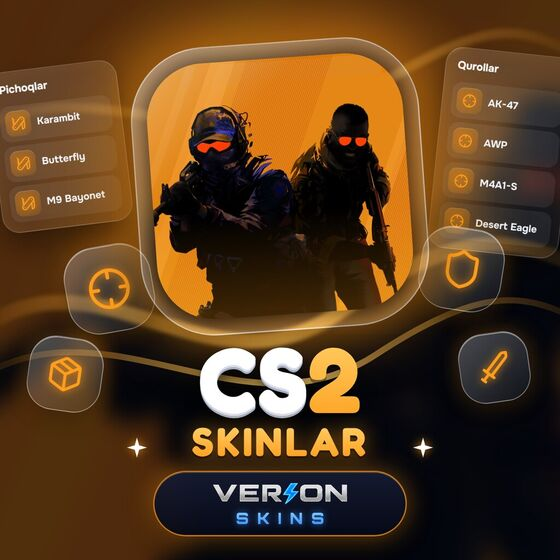
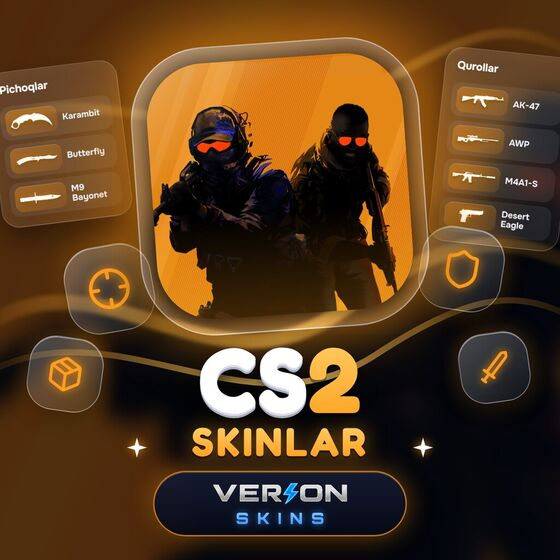
v3.35: Virtual raqam — faqat Telegram va davlat raqamlari; CS2 — haqiqiy qurol shakllari
Virtual raqam muqovasi panellarida faqat Telegram va davlat kodlari
(+998, +7, +1, +44, +90, +62). CS2 muqovasida pichoq va qurollarning
o'yindagi oq kill-feed shakllari (lexogrine/cs2-react-hud, MIT).

Claude-Session: https://claude.ai/code/session_01CbtuoV2biNfcxKy98shqWf

Changed region(s): [[0.7893, 0.0911, 1.0, 0.4857], [0.0, 0.1518, 0.2429, 0.425]]

diff --git a/server.js b/server.js
@@ -14,7 +14,7 @@ const ADMIN_IDS = (process.env.ADMIN_IDS || "5606872249,8684274899")
 /* Deploy belgisi — Railway rostdan yangi kodni ko'tardimi yoki eski build turibdimi,
    shuni ko'rish uchun. Profil ekranida ID ostida ko'rinadi (server/ilova alohida).
    Kod o'zgarganda shu satrni yangilab qo'yiladi. */
-const BUILD = "2026-11-06.7";
+const BUILD = "2026-11-06.8";
 // Har ishga tushishda yangi tasodifiy belgi — /api/health orqali "bu manzil aynan
 // SHU serverga olib keladimi" tekshiruvi uchun (maxfiy emas).
 const INSTANCE_ID = crypto.randomBytes(8).toString("hex");

diff --git a/verion-shop.html b/verion-shop.html
@@ -2827,7 +2827,7 @@ var ADMIN_IDS=[5606872249, 8684274899];
 /* Deploy belgisi — Profil ekranida ID ostida ko'rinadi. Ikkita raqam bo'ladi:
    birinchisi shu HTML fayl (Telegram keshi eski bo'lsa eskiligicha qoladi),
    ikkinchisi server (Railway). Ikkalasi bir xil bo'lmasa — kesh yoki deploy eski. */
-var CLIENT_BUILD="2026-11-06.7";
+var CLIENT_BUILD="2026-11-06.8";
 
 /* ===== Telegram init (guarded) ===== */
 var TG=null;

diff --git a/README.md b/README.md
@@ -380,6 +380,7 @@ Ko'rinishi ilova mavzusidan qat'i nazar doim to'q: grafit fon, Unbounded (sarlav
 - **v3.19 — bosh sahifa kartalari «tirik»:** har bir bo'lim kartasida (a) rasm juda sekin yaqinlashadi, (b) 12 soniyalik aylanishda navbat bilan bitta kartada yumshoq och-ko'k yorug'lik chizig'i aylanib chiqadi (hamma kartada bir xil rang), (c) pastda yashil «Sotib olish» tugmasi (`ctaBtn()`: yaltirash, oq doira ichida harakatlanuvchi strelka, yonayotgan kartada halqa), (d) bosilganda bosilgan joydan to'lqin (`pripple`), (e) mahsulot soni yonida yashil «mavjud» nuqtasi. Nakrutka kartasida faqat mahsulot soni (yuklanguncha «…», xato bo'lsa eski izoh; `NkHomeFail`). Hammasi faqat `transform`/`opacity`; «Kamroq harakat» (`data-reduce-motion`), `prefers-reduced-motion` va `.lite` rejimida o'chadi (ilgari bu ro'yxat keyingi `@media` qoidasi bilan qo'shilib qolib, sozlama ishlamas edi — tuzatildi). Bo'lim kartalarining rasmlari (1024×1024) admin paneldan ✏ orqali yuklanadi.
 - **v3.20 — Telegram Premium: kimga olishni tanlash + «Balans yetarli emas» oynasi:** `fulfill:"fragment_premium"` mahsulotlari endi alohida oqim (`openPremiumBuy`) orqali sotiladi: tepada Premium kartasi, `@USERNAME` + «Tekshirish» (`/api/fragment/check-user`, «O'zimga» tugmasi), tekshirilgach yashil karta (ism, @username, «O'zgartirish»); qabul qiluvchida Premium allaqachon bo'lsa — sariq ogohlantirish va xarid bloklanadi; paketlar (3/6/12 oy) kartochkalarda tanlanadi. Xarid yangi `POST /api/buy-premium {itemId, username}` orqali: eski `/api/buy` Premium'ni faqat xaridorning o'ziga yuborar edi. Pul `reserveBalance` bilan band qilinadi, Fragment aniq rad etsa qaytariladi, aloqa uzilsa buyurtma «kutilmoqda» bo'ladi; «allaqachon Premium» javobi `409 already_premium` (adminga signal ketmaydi). Telegram bo'limida bir nechta Premium paketi BITTA «Telegram Premium» kartasiga jamlanadi (`productGridHTML`). Balans yetmasa hamma xarid oqimlarida (Premium, Stars, sovg'a, oddiy mahsulot) bitta oyna chiqadi (`openNeedBalance`): mahsulot narxi / balans / yetishmaydi + pastda «Yopish» va «Balansni to'ldirish» (to'lov sahifasi yetishmagan summa bilan ochiladi). Mahsulot oynalari endi to'liq ekranli sahifa (`openSheet(inner,backFn,{full:true})`: tepada «Orqaga», pastda qotgan harakat paneli `.fbar`): oddiy mahsulot, tasdiqlash, Stars, sovg'a, Premium va o'yin tasdiqlash. «Balans yetarli emas» endi mustaqil qatlam (`#nbOv`, `openNeedBalance(price)`): sahifa ostida joyida qoladi; oddiy mahsulot, o'yin, Stars, sovg'a, Premium, Nakrutka, Steam, virtual raqam va skinlarda bir xil chiqadi. Stars, Premium va sovg'ada «O'zimga» ingichka tugma (`.selfBtn`, `selfBtnHTML`). Premium paketlari katalogda bo'lishi uchun admin «Oddiy mahsulot» → «Yetkazish turi: Avto-Premium (Fragment)» bilan 3/6/12 oylik mahsulot qo'shadi.
 - **v3.22 — tayyor mahsulot muqovalari:** `assets/cover-*.jpg` (1024×1024; Stars, Premium, Sovg'alar, Virtual raqam, Steam, Gemini Pro, CS2, Dota 2, Rust) — bitta uslubda (shisha plitka, 3D markaziy narsa, ikki rangli sarlavha, pastda VERION SHOP). Admin rasm qo'ymagan joylarda ilova ularni o'zi ko'rsatadi: Virtual raqam, Steam, CS2/Dota 2/Rust kartalari (`DEF_COVER`, `cardImg()`; admin qo'ygan rasm doim ustun — `cardImgSet()`), Stars (`fragment_stars_custom`) va Premium (`fragment_premium`) mahsulot plitkasi (`tileHTML`). Admin qo'ygan rasm bo'lsa o'sha ko'rinadi: yangi muqovani almashtirish uchun mahsulotdagi ✏ → rasm. Muqovalar ilova ichidagi haqiqiy ekran (Virtual raqam telefon ichida), rasmiy Stars/Steam/Gemini belgilari va 3D emoji bilan yasalgan, tashqi servislarsiz.
+- **v3.35 — Virtual raqam va CS2 muqovalari:** Virtual raqam panellarida faqat Telegram va davlat raqamlari (+998, +7, +1, +44, +90, +62). CS2 panellarida qurollarning haqiqiy oq shakllari (o'yindagi kill-feed belgilari; manba: lexogrine/cs2-react-hud, MIT litsenziya): Karambit, Butterfly, M9 Bayonet / AK-47, AWP, M4A1-S, Desert Eagle.
 - **v3.34 — mahsulot muqovalari: yon panellarda mahsulotga oid ma'lumot:** Stars (50…5 000 Stars ro'yxati), Premium (3/6/12 oy va imkoniyatlar), Sovg'alar (sovg'a turlari), Virtual raqam (+998/+7/+1, Telegram/WhatsApp/Google/Instagram), Steam (do'kon menyusi va $5–$50 hamyon), Gemini (imkoniyatlar), CS2 (bir tomonda pichoqlar, bir tomonda qurollar), Dota 2 (haqiqiy qahramon rasmlari), Rust (qurol va buyumlar). Emoji/stiker yo'q — faqat SVG ikonkalar va haqiqiy rasmlar; plitkada faqat asosiy narsa.
 - **v3.31 — bo'limlar eski ko'rinishda, muqovalar toza:** bo'lim kartalarida (Telegram, O'yinlar, Obuna, Nakrutka) tayyor muqova endi FAQAT admin «Tayyor muqovalar»ni yoqqanda chiqadi; standart holatda — admin yuklagan rasm yoki eski ikonkali plitka (`catDefCover()` `ownCovers()` bo'lsa bo'sh qaytaradi). `assets/cover-*.jpg` (13 ta) **qo'shimcha narsalarsiz** qayta chizildi: faqat asosiy narsa + shisha plitka + sarlavha + logo (sovg'a qutisi, yurak, yulduzcha, pufak, yon panel va ikonka plitkalari olib tashlandi — ularni boshqa AI qo'shadi). Sayt kartalari (`assets/t-*.jpg`) ham shulardan qayta olindi.
 - **v3.23 — bo'lim kartalari va /start rasmi yangi uslubda:** `assets/cover-cat-{obuna,oyinlar,telegram,nakrutka}.jpg` (haqiqiy ilova belgilari shisha plitkada) — bosh sahifadagi bo'lim kartasiga admin rasm qo'ymagan bo'lsa shu chiqadi (`catDefCover`); admin qo'ygan rasm ustun. Eski rasm (matni kesilib qolgan) o'rniga yangisini qo'yish: Mahsulotlar → «🗂 Bo'limlar: nomi va rasmi» → rasm yonidagi ✕ (tayyor muqova o'zi chiqadi) yoki `cover-cat-*.jpg` ni yuklash. `assets/start-banner.png` (botdagi /start rasmi) shu uslubga o'tkazildi (server uni `size-mtime` bo'yicha qayta yuklaydi). Ismi emoji bilan boshlangan foydalanuvchining avatar harfi «�» bo'lib chiqmaydi (`firstCh`). Muqovalar skinlar bilan bir xil yasash usulida: lenta endi sarlavhani kesib o'tmaydi. Mahsulot sahifasining tepasidagi rasm endi kesilmaydi: butun muqova ko'rinadi, orqasida uning xira nusxasi (`.bgb`). Premium muqovasi rasmiy Telegram Premium yulduzi shaklida (swoosh) va rasmiy binafsha→pushti gradient bilan, Sovg'alar muqovasida haqiqiy Telegram sovg'asi (ayiqcha), Stars'da rasmiy sharlar uslubi. Steam va Gemini muqovalari rasmiy belgilar bilan (Steam: ko'k gradientli disk + oq belgi, `assets/steam.svg` — Steam sahifasining tepasida ham shu; Gemini: rasmiy shakl va ranglar). Muqovalardan emoji olib tashlandi: pastki burchaklarda haqiqiy Telegram sovg'a ayiqchasi va o'zim chizgan 3D sovg'a qutilari/yuraklar/sharlar/suhbat bulutlari (SVG shakl + yorug'lik filtri), Gemini'da rasmiy yulduzcha nusxalari. «Tayyor muqovalar» sozlamasi (`extras.coverMode`; v3.29 dan standart: O'CHIQ — admin yuklagan rasm ustun, tayyor muqova faqat rasm yo'q joyda; admin: Mahsulotlar → 🖼): yoqilsa ilovaga o'rnatilgan muqovalar admin yuklagan rasmlardan USTUN (Stars, Premium, Sovg'a, Gemini Pro, Virtual raqam, Steam, skinlar va 4 ta bo'lim kartasi); o'chirilsa — admin rasmi ko'rinadi (`ownCovers()`, `builtinCoverFor()`). Stars, Premium, Steam va Sovg'a muqovalari har biri o'z mavzusida alohida: o'qiladigan shisha panel (Stars paketlari, Premium imkoniyatlari, Steam menyusi, sovg'alar to'plami), mavzuga mos 3D narsalar (yulduzlar, tojlar, o'yin tutqichi va Steam o'yin rasmlari, ayiqcha), ikki qatorli sarlavha «Telegram / Stars». Botning standart /start matni tuzilgan ro'yxatga o'tkazildi (admin o'z matnini yozgan bo'lsa — o'sha ishlaydi).
